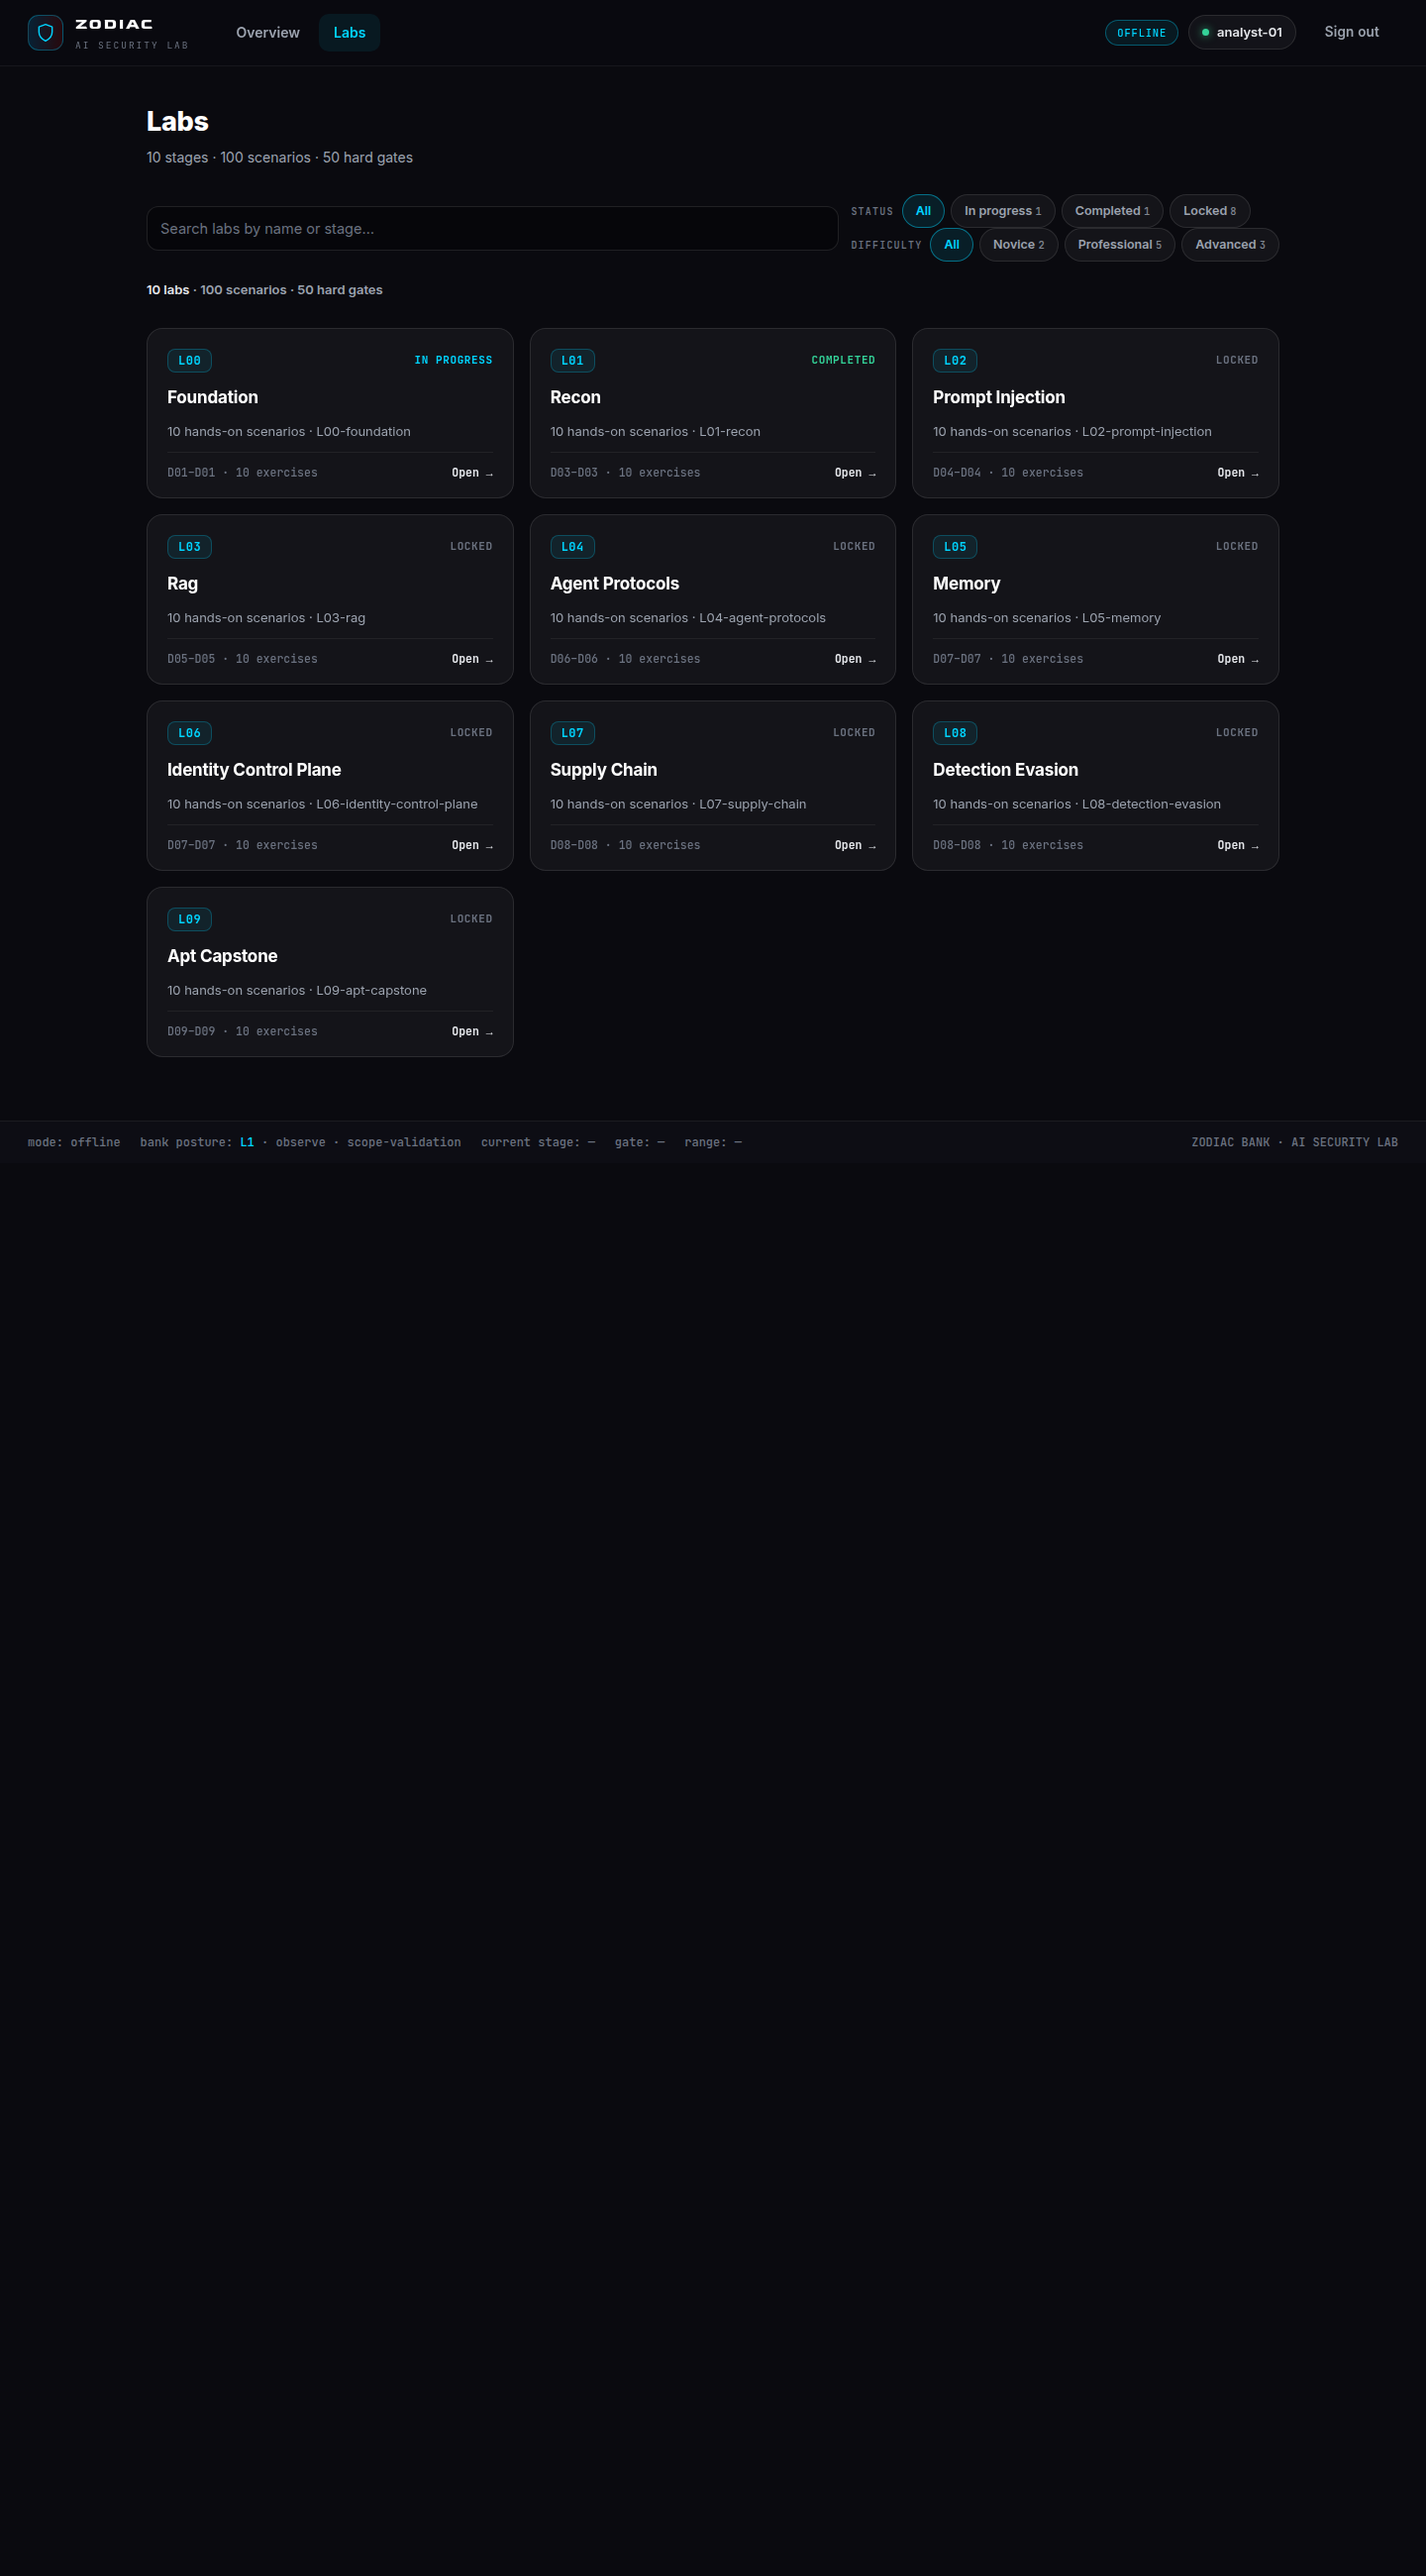
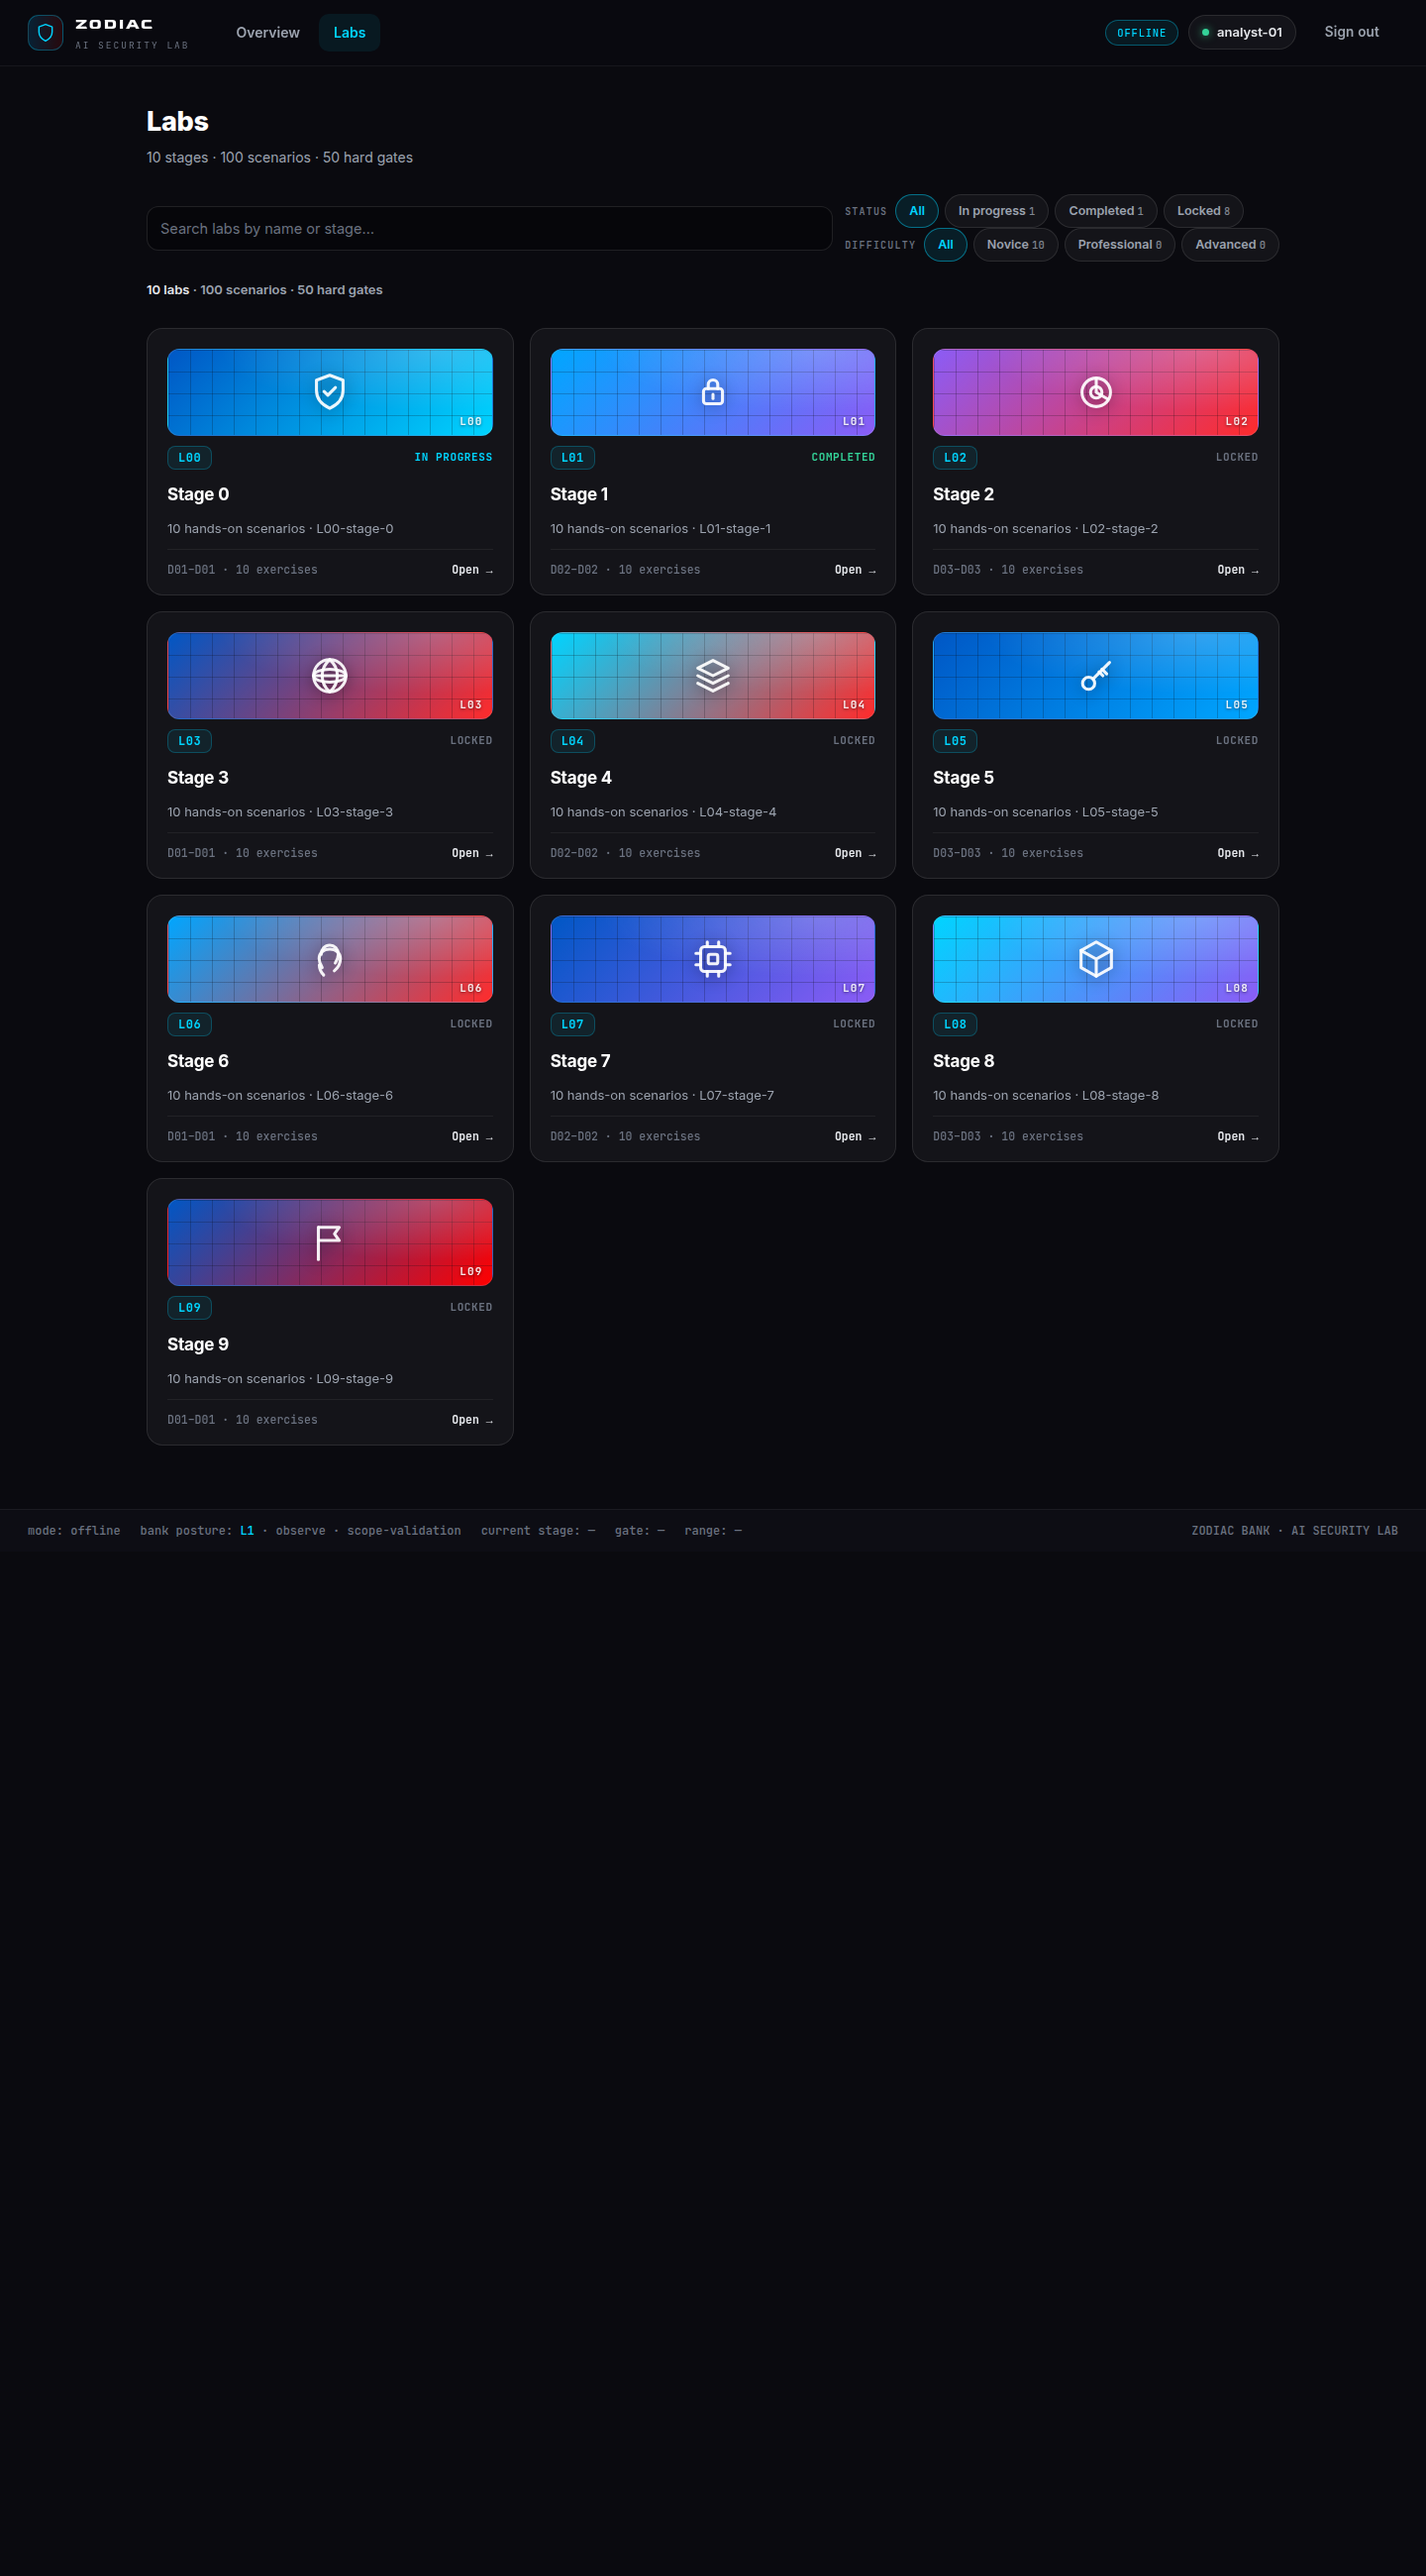
Add lab cover art, badge motivation and a synthetic virtual ledger
Give the trainer the professional polish of a real cyber-range:
every lab card now has gradient cover art in the CWL palette (blue,
cyan, violet, red cycles with a per-stage security glyph like shield,
vault, radar, globe), the dashboard gains a "Next badge" motivation
ring showing stage completion, and a synthetic virtual ledger panel
renders bank transactions (branch accounts, wire/settlement/approval
descriptions, +/- amounts, posted/pending/flagged statuses) on both
the dashboard and each lab page — clearly labeled simulation data.

All fetch/API logic is unchanged; only render templates, CSS and
additive UI renderers (coverFor, renderLedger, renderBadge) were added.

diff --git a/training-challenges/index.html b/training-challenges/index.html
@@ -497,6 +497,66 @@
     color: var(--warn); background: var(--warn-soft); border: 1px solid rgba(245, 165, 36, .3);
   }
 
+  /* ---------- Lab cover art (CWL-style thumbnails) ---------- */
+  .lab-cover {
+    position: relative; height: 88px; border-radius: 12px;
+    display: grid; place-items: center; overflow: hidden;
+    border: 1px solid rgba(255, 255, 255, .12);
+  }
+  .lab-cover::after {
+    content: ""; position: absolute; inset: 0;
+    background:
+      radial-gradient(120% 130% at 82% 0%, rgba(255, 255, 255, .2), transparent 55%),
+      linear-gradient(rgba(10, 10, 15, .22) 1px, transparent 1px),
+      linear-gradient(90deg, rgba(10, 10, 15, .22) 1px, transparent 1px);
+    background-size: auto, 22px 22px, 22px 22px;
+  }
+  .lab-cover svg {
+    width: 46px; height: 46px; position: relative; z-index: 1;
+    filter: drop-shadow(0 2px 8px rgba(0, 0, 0, .45));
+  }
+  .lab-cover .cover-code {
+    position: absolute; right: 9px; bottom: 7px; z-index: 1;
+    font: 700 11px var(--mono); letter-spacing: 1.2px; color: rgba(255, 255, 255, .9);
+    text-shadow: 0 1px 3px rgba(0, 0, 0, .5);
+  }
+
+  /* ---------- Next badge (motivation) ---------- */
+  .badge-card { display: flex; align-items: center; gap: 16px; }
+  .badge-ring { width: 68px; height: 68px; flex: 0 0 68px; transform: rotate(-90deg); }
+  .badge-ring .ring-bg { fill: none; stroke: rgba(255, 255, 255, .09); stroke-width: 6; }
+  .badge-ring .ring-fg { fill: none; stroke: var(--cyan); stroke-width: 6; stroke-linecap: round; transition: stroke-dasharray .5s; filter: drop-shadow(0 0 6px rgba(0, 212, 255, .6)); }
+  .badge-ring .ring-pct { transform: rotate(90deg); transform-origin: 36px 36px; fill: var(--text); font: 700 11px var(--mono); }
+  .badge-card .label { font: 600 10.5px var(--mono); letter-spacing: 1.2px; text-transform: uppercase; color: var(--faint); }
+  .badge-card .title { font-size: 17px; font-weight: 700; color: var(--text); margin-top: 2px; }
+  .badge-card .sub { font-size: 13px; color: var(--text-3); margin-top: 2px; }
+
+  /* ---------- Virtual ledger (synthetic transactions) ---------- */
+  .ledger { display: flex; flex-direction: column; }
+  .ledger-head, .ledger-row {
+    display: grid; grid-template-columns: 122px minmax(0, 1fr) 100px 78px; gap: 8px; align-items: center;
+  }
+  .ledger-head {
+    padding: 6px 10px; font: 600 9.5px var(--mono); letter-spacing: 1px; text-transform: uppercase;
+    color: var(--faint); border-bottom: 1px solid var(--border-soft);
+  }
+  .ledger-row {
+    padding: 7px 10px; font: 500 11.5px var(--mono); color: var(--text-2);
+    border-bottom: 1px solid var(--border-soft);
+  }
+  .ledger-row:last-of-type { border-bottom: 0; }
+  .ledger-row:hover { background: var(--glass-2); }
+  .l-acct { color: var(--text-3); overflow: hidden; text-overflow: ellipsis; white-space: nowrap; }
+  .l-desc { overflow: hidden; text-overflow: ellipsis; white-space: nowrap; }
+  .l-amt { text-align: right; font-weight: 600; white-space: nowrap; }
+  .l-amt.pos { color: var(--success); }
+  .l-amt.neg { color: var(--danger); }
+  .l-status { text-align: right; font: 600 9.5px var(--mono); text-transform: uppercase; letter-spacing: .5px; }
+  .l-status.posted { color: var(--success); }
+  .l-status.pending { color: var(--warn); }
+  .l-status.flagged { color: var(--danger); }
+  .ledger-note { margin: 10px 0 0; font: 500 10.5px var(--mono); color: var(--faint); text-align: center; }
+
   /* ---------- Footer (terminal status line) ---------- */
   .app-footer {
     display: flex; gap: 8px 20px; flex-wrap: wrap; align-items: center;
@@ -618,6 +678,10 @@
         <p id="dash-sub">Your synthetic bank security range.</p>
       </div>
       <div class="stats" id="dash-stats"></div>
+      <div class="panel" style="margin-bottom:16px">
+        <h2>Next badge</h2>
+        <div id="badge-body"><p class="muted">—</p></div>
+      </div>
       <div class="two-col">
         <div class="panel">
           <h2>Progression</h2>
@@ -637,6 +701,10 @@
           <h2>Activity</h2>
           <div id="activity-body"><p class="muted">—</p></div>
         </div>
+      </div>
+      <div class="panel" style="margin-top:16px">
+        <h2>Virtual ledger</h2>
+        <div id="dash-ledger"><p class="muted">—</p></div>
       </div>
     </div>
   </section>
@@ -688,6 +756,10 @@
           <div class="panel">
             <h2>Bank posture</h2>
             <div id="posture-body"><p class="muted">—</p></div>
+          </div>
+          <div class="panel">
+            <h2>Virtual ledger</h2>
+            <div id="ledger-body"><p class="muted">—</p></div>
           </div>
         </aside>
       </div>
@@ -847,6 +919,33 @@ function maxDifficulty(stage) {
   return Math.max.apply(null, (stage.scenarios || []).map((s) => s.difficulty));
 }
 
+/* ---------- Lab cover art (CWL-style thumbnails) ---------- */
+
+const COVER_GRADS = [
+  ["#0057c5", "#00d4ff"], ["#00a6ff", "#8b5cf6"], ["#8b5cf6", "#ff2b2b"],
+  ["#0057c5", "#ff2b2b"], ["#00d4ff", "#ff2b2b"], ["#0057c5", "#00a6ff"],
+  ["#00a6ff", "#ff2b2b"], ["#0057c5", "#8b5cf6"], ["#00d4ff", "#8b5cf6"],
+  ["#0057c5", "#ff0000"],
+];
+const COVER_GLYPHS = ["shield", "vault", "radar", "globe", "layers", "key", "finger", "cpu", "cube", "flag"];
+const GLYPH_PATHS = {
+  shield: '<path d="M12 3l7 2.6V11c0 4.4-3 7.6-7 9.4-4-1.8-7-5-7-9.4V5.6L12 3z"/><path d="M9 11.5l2 2 4-4"/>',
+  vault: '<rect x="7" y="10" width="10" height="8" rx="1.5"/><path d="M9.5 10V8a2.5 2.5 0 0 1 5 0v2"/><path d="M12 13v2.2"/>',
+  radar: '<circle cx="12" cy="12" r="3"/><circle cx="12" cy="12" r="7.5"/><path d="M12 4.5V12l6 3.5"/>',
+  globe: '<circle cx="12" cy="12" r="8.5"/><ellipse cx="12" cy="12" rx="8.5" ry="3.4"/><path d="M3.5 12h17"/><path d="M12 3.5c2.7 2.3 4 5.2 4 8.5s-1.3 6.2-4 8.5c-2.7-2.3-4-5.2-4-8.5s1.3-6.2 4-8.5z"/>',
+  layers: '<path d="M12 4l8 4-8 4-8-4 8-4z"/><path d="M4 12l8 4 8-4"/><path d="M4 16l8 4 8-4"/>',
+  key: '<circle cx="8" cy="16" r="3.2"/><path d="M10.4 13.6L19 5"/><path d="M15 8.5l2.5 2.5"/><path d="M13.5 10l2 2"/>',
+  finger: '<path d="M7.5 9.5c0-2.8 2-4.8 4.5-4.8s4.5 2 4.5 4.8c0 2-.9 3.5-1.6 4.6"/><path d="M8 16.5c-1-1.6-1.6-3-1.6-4.7 0-3 2.2-5 5.6-5 3.3 0 5.6 2 5.6 5 0 2.6-1.4 5-3.2 6.4"/><path d="M8.8 20.4c-1.4-1.5-2.3-3.2-2.3-5.3"/>',
+  cpu: '<rect x="5.5" y="5.5" width="13" height="13" rx="2"/><rect x="9.5" y="9.5" width="5" height="5" rx="1"/><path d="M9 3v2.5M15 3v2.5M9 18.5V21M15 18.5V21M3 9h2.5M3 15h2.5M18.5 9H21M18.5 15H21"/>',
+  cube: '<path d="M12 3l8 4.5v9L12 21l-8-4.5v-9L12 3z"/><path d="M12 12l8-4.5M12 12v9M12 12L4 7.5"/>',
+  flag: '<path d="M6 21V4"/><path d="M6 4h11l-2.5 3.5L17 11H6"/>',
+};
+
+function coverFor(i, code) {
+  const g = COVER_GRADS[i % COVER_GRADS.length];
+  return { g1: g[0], g2: g[1], glyph: GLYPH_PATHS[COVER_GLYPHS[i % COVER_GLYPHS.length]] || "" };
+}
+
 /* ---------- Render: labs (CWL challenge grid, with filter chips) ---------- */
 
 function stageDifficultyBand(stage) {
@@ -930,7 +1029,7 @@ function renderRange() {
       <span class="results-count">${shown.length} ${shown.length === 1 ? "lab" : "labs"} <span class="muted">· ${all.reduce((n, s) => n + s.scenarios.length, 0)} scenarios · 50 hard gates</span></span>
       ${hasFilters ? `<button type="button" class="facet-clear" data-clear-top="1">Clear filters</button>` : ""}
     </div>
-    ${shown.map((stage) => {
+    ${shown.map((stage, i) => {
       const cur = curriculumStages.find((s) => s.id === stage.stage_id);
       const isCurrent = stage.stage_id === state.currentStageId;
       const isCompleted = cur && cur.status === "completed";
@@ -939,7 +1038,12 @@ function renderRange() {
       const code = stage.stage_id.split("-")[0];
       const lo = String(minDifficulty(stage)).padStart(2, "0");
       const hi = String(maxDifficulty(stage)).padStart(2, "0");
+      const cover = coverFor(i, code);
       return `<a class="lab-card" href="#/lab/${encodeURIComponent(stage.stage_id)}">
+        <span class="lab-cover" aria-hidden="true" style="background:linear-gradient(135deg, ${cover.g1}, ${cover.g2})">
+          <svg viewBox="0 0 24 24" fill="none" stroke="rgba(255,255,255,.92)" stroke-width="1.6" stroke-linecap="round" stroke-linejoin="round">${cover.glyph}</svg>
+          <span class="cover-code">${esc(code)}</span>
+        </span>
         <div class="lab-card-top">
           <span class="lab-code">${esc(code)}</span>
           <span class="lab-status ${statusClass}">${status}</span>
@@ -1388,9 +1492,90 @@ function renderLab(stageId) {
   renderLabScenarios();
   renderScenario();
   renderSynthesis();
+  renderLedger();
 }
 
 /* ---------- Dashboard ---------- */
+
+function seedHash(str) {
+  let h = 2166136261;
+  for (let i = 0; i < str.length; i++) {
+    h ^= str.charCodeAt(i);
+    h = Math.imul(h, 16777619);
+  }
+  return h >>> 0;
+}
+
+function money(n) {
+  return "$" + n.toLocaleString("en-US", { minimumFractionDigits: 2, maximumFractionDigits: 2 });
+}
+
+function ledgerHTML() {
+  const level = ((state.range && state.range.bank_profile && state.range.bank_profile.level) || 1);
+  const seed = seedHash(state.learner + ":" + (state.currentStageId || "idle") + ":" + level);
+  const pool = [
+    ["Wire transfer", "inbound", "posted"],
+    ["Maker approval", "inbound", "pending"],
+    ["Checkout settlement", "outbound", "posted"],
+    ["Payroll run", "outbound", "posted"],
+    ["Interest accrual", "inbound", "posted"],
+    ["Card refund", "inbound", "posted"],
+    ["ACH push", "outbound", "pending"],
+    ["FX conversion", "outbound", "posted"],
+    ["Vault deposit", "inbound", "posted"],
+    ["Escrow hold", "outbound", "flagged"],
+  ];
+  const branches = ["BR-01", "BR-02", "BR-03", "HQ-01"];
+  const rows = [];
+  for (let i = 0; i < 7; i++) {
+    const r = seed + i * 2654435761;
+    const pick = pool[(r >>> 3) % pool.length];
+    const branch = branches[(r >>> 5) % branches.length];
+    const amount = 250 + ((r >>> 11) % 90000);
+    const sign = pick[1] === "inbound" ? "+" : "-";
+    rows.push(`<div class="ledger-row">
+      <span class="l-acct">${branch} · ${String(1000 + (r % 9000)).padStart(4, "0")}</span>
+      <span class="l-desc">${pick[0]}</span>
+      <span class="l-amt ${sign === "-" ? "neg" : "pos"}">${sign}${money(amount)}</span>
+      <span class="l-status ${pick[2]}">${pick[2]}</span>
+    </div>`);
+  }
+  return `
+    <div class="ledger">
+      <div class="ledger-head"><span>Account</span><span>Description</span><span class="amt">Amount</span><span>Status</span></div>
+      ${rows.join("")}
+    </div>
+    <p class="ledger-note">SYNTHETIC SIMULATION · VIRTUAL LEDGER · NO REAL FUNDS</p>`;
+}
+
+function renderLedger() {
+  const html = ledgerHTML();
+  const boxes = [$("ledger-body"), $("dash-ledger")];
+  boxes.forEach((box) => { if (box) box.innerHTML = html; });
+}
+
+function renderBadge() {
+  const box = $("badge-body");
+  if (!box) return;
+  const stages = (state.curriculum && state.curriculum.stages) || [];
+  const completed = stages.filter((s) => s.status === "completed").length;
+  const next = stages.find((s) => s.status === "unlocked") || null;
+  const pct = stages.length ? Math.round((completed / stages.length) * 100) : 0;
+  const circ = 188.5;
+  box.innerHTML = `
+    <div class="badge-card">
+      <svg class="badge-ring" viewBox="0 0 72 72" aria-hidden="true">
+        <circle class="ring-bg" cx="36" cy="36" r="30"></circle>
+        <circle class="ring-fg" cx="36" cy="36" r="30" style="stroke-dasharray:${(pct / 100) * circ}, ${circ}"></circle>
+        <text class="ring-pct" x="36" y="41" text-anchor="middle">${pct}%</text>
+      </svg>
+      <div>
+        <div class="label">Next badge</div>
+        <div class="title">${next ? esc(stageTitle(next.id)) : "Lab complete"}</div>
+        <div class="sub">${completed} of ${stages.length || 10} stages completed</div>
+      </div>
+    </div>`;
+}
 
 function renderActivity() {
   const box = $("activity-body");
@@ -1441,6 +1626,8 @@ function renderDashboard() {
   }
   renderProgression();
   renderActivity();
+  renderBadge();
+  renderLedger();
   const cont = $("continue-body");
   if (cont) {
     if (state.currentStageId) {
